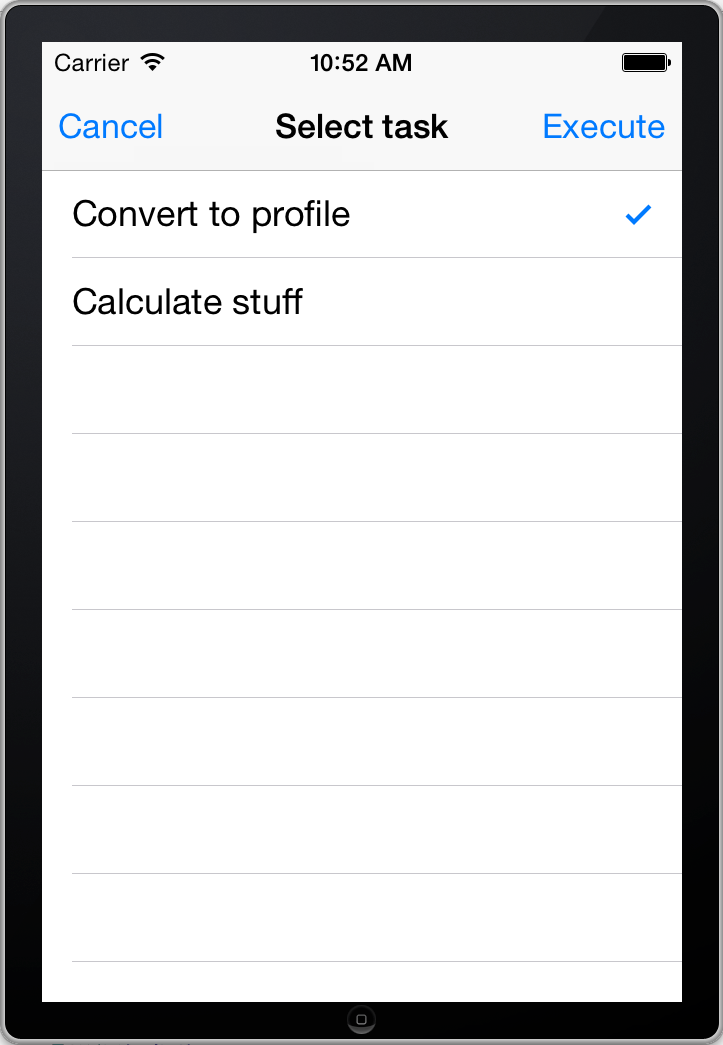
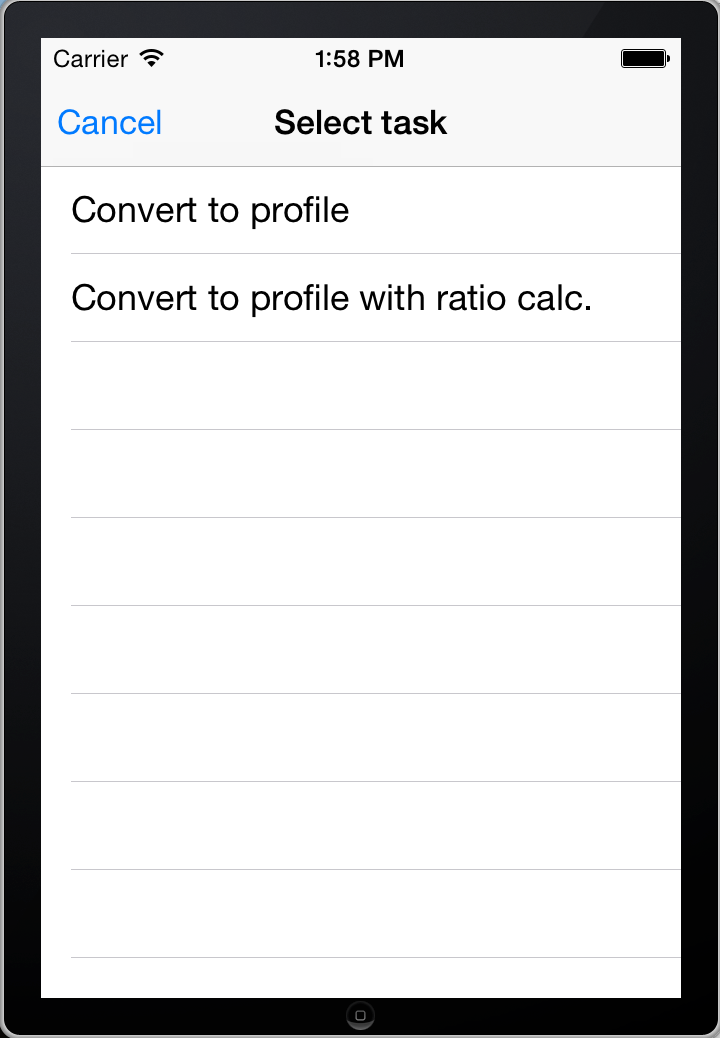
iOS

diff --git a/usermanual/ios_manual.tex b/usermanual/ios_manual.tex
@@ -1,14 +1,15 @@
 In order to use the program import the project from github into Xcode from the following repository:
 \url{https://github.com/genomizer/genomizer-iOS.git} 
 
+To compile and run the program press \click{cmd+R}. A simulator will start and the login screen will be shown as seen in \refer{fig:ios_login}  below. A user gets logged in when accepted credentials are entered in the ‘username’ and ‘password’ fields and the ‘Sign in’ button is pressed. If incorrect credentials is entered, a popup message is shown, informing the user that the username or password is incorrect.
+
 \begin{figure}[ht]
 \addScaledImage{0.2}{ios_login.png}
 \caption{The login screen.}
 \label{fig:ios_login}
 \end{figure}
 \FloatBarrier
-
-To compile and run the program press \click{cmd+R}. A simulator will start and the login screen will be shown as seen in \refer{fig:ios_login}  below. A user gets logged in when accepted credentials are entered in the \term{username} and \term{password} fields and the \click{Sign in} button is pressed. If incorrect credentials is entered, a popup message is shown, informing the user that the username or password is incorrect.
+After logging in, the user is presented with a search view as seen in \refer{fig:ios_search}. The bottom menu bar is used to navigate between the Search-, Selected files- and More-view according to Apples current GUI standards for iOS 7. In the current state, the More-menu only contains a logout button which is used to log out.The Selected files-menu contains a list sorted on file type of files selected by the user. In the search view, the user can search the database for results matching any number of search criteria. To be able to modify the search quickly, a toggle button is available in the rightmost edge of each search field which enables or disables each search field. For example, if the user wants to search for files matching a certain Experiment ID, the user clicks on ‘Experiment ID’, enters the ID and clicks on the toggle button. 
 
 \begin{figure}[ht]
 \addScaledImage{0.2}{ios_search.png}
@@ -16,10 +17,7 @@ To compile and run the program press \click{cmd+R}. A simulator will start and t
 \label{fig:ios_search}
 \end{figure}
 \FloatBarrier
-
-
-After logging in, the user is presented with a search view as seen in \refer{fig:ios_search}. The bottom menu bar is used to navigate between the Search-, Selected files- and More-view according to Apples current GUI standards for iOS 7. In the current state, the More-menu only contains a logout button which is used to log out.The Selected files-menu contains a list sorted on file type of files selected by the user. In the search view, the user can search the database for results matching any number of search criteria. To be able to modify the search quickly, a toggle button is available in the rightmost edge of each search field which enables or disables each search field. For example, if the user wants to search for files matching a certain Experiment ID, the user clicks on \click{Experiment ID}, enters the ID and clicks on the toggle button. 
-
+In top rightmost corner there is a button for opening a advanced search view as seen in \refer{fig:ios_advSearch}. Here the user is supposed to enter a search query in ’pubmed-style-format’. If a user fills in fields in the regular search view and then opens the advanced search view, the fields in filled at the regular search view will apper as a query in the advanced search view.
 
 \begin{figure}[ht]
 \addScaledImage{0.2}{ios_advSearch.png}
@@ -27,8 +25,7 @@ After logging in, the user is presented with a search view as seen in \refer{fig
 \label{fig:ios_advSearch}
 \end{figure}
 \FloatBarrier
-
-In top rightmost corner there is a button for opening a advanced search view as seen in \refer{fig:ios_advSearch}. Here the user is supposed to enter a search query in ’pubmed-style-format’. If a user fills in fields in the regular search view and then opens the advanced search view, the fields in filled at the regular search view will apper as a query in the advanced search view.
+When the search button has been pressed, the user is presented with all matching experiments in the Search Results view shown in \refer{fig:ios_searchResult}. To manage which annotations that shoud be shown for every experiment the user can press the edit button in the top rightmost corner.
 
 \begin{figure}[ht]
 \addScaledImage{0.2}{ios_searchResults.png}
@@ -36,8 +33,7 @@ In top rightmost corner there is a button for opening a advanced search view as 
 \label{fig:ios_searchResult}
 \end{figure}
 \FloatBarrier
-
-When the search button has been pressed, the user is presented with all matching experiments in the Search Results view shown in \refer{fig:ios_searchResult}. To manage which annotations that shoud be shown for every experiment the user can press the edit button in the top rightmost corner.
+When the edit button is pressed the select annotations screen as seen in \refer{fig:ios_selectAnnotations} is shown. Here the user can choose which annotations should be shown in the search results screen. 
 
 \begin{figure}[htb]
 \addScaledImage{0.2}{ios_selectAnnotations.png}
@@ -45,26 +41,30 @@ When the search button has been pressed, the user is presented with all matching
 \label{fig:ios_selectAnnotations}
 \end{figure}
 \FloatBarrier
-
-When the edit button is pressed the select annotations screen as seen in \refer{fig:ios_selectAnnotations} is shown. Here the user can choose which annotations should be shown in the search results screen. 
+To see which files are associated with each experiment, the user can click on the experiment. Then the files view is shown as seen in \refer{fig:ios_files1}. Here the user can see all files conneted to the chosen experiment, sorted by type, and select files that the user want to move to the selected files view. If the user selects files and presses the ‘convert files’-button a the user is shown the Select task view shown in \refer{fig:ios_selectTask}. More about that screen later. The user can also get information about a file by simply clicking the blue information sign close to the filename. The file information is shown in a popup window as shown in \refer{fig:ios_fileInfo}.
 
 \begin{figure}[htb]
-\addScaledImage{0.2}{ios_files.png}
+\addScaledImage{0.2}{ios_files1.png}
 \caption{The files screen.}
-\label{fig:ios_files}
+\label{fig:ios_files1}
 \end{figure}
-\FloatBarrier
-
-To see which files are associated with each experiment, the user can click on the experiment. Then the files view is shown as seen in \refer{fig:ios_files}. Here the user can see all files conneted to the chosen experiment, sorted by type, and select files that the user want to move to the selected files view. If the user selects files and presses the \click{convert files} button a convert request is sent to the server. 
 
 \begin{figure}[htb]
-\addScaledImage{0.2}{ios_selectedFiles.png}
-\caption{The selected files screen.}
-\label{fig:ios_selectedFiles}
+\addScaledImage{0.2}{ios_fileInfo.png}
+\caption{Screen showing popup information about a file.}
+\label{fig:ios_fileInfo}
 \end{figure}
 \FloatBarrier
+If the user had added files to the selected files and then presses the ‘Selected Files’-button in the menu the selected files screen is presented as seen in \refer{fig:ios_selectedFiles1}. If the user wishes to se more information about a file it is possible to simple click the blue information sign close to the filename and then file information is shown in a similar way as in the files view seen in \refer{fig:ios_fileInfo}. In the selected files screen the user can either select files and then press the trashcan icon in the top rightmost corner to delete the currently selected files or select a task to perform on the currently selected files by pressing the ‘Select task to perform’-button. 
 
-If the user had added files to the selected files and then presses the \click{Selected Files} button in the menu the selected files screen is presented as seen in \refer{fig:ios_selectedFiles}. Here the user can either select files and then press the trashcan icon in the top rightmost corner to delete the currently selected files or select a task to perform on the currently selected files by pressing the \click{Select task to perform} button. 
+\begin{figure}[htb]
+\addScaledImage{0.2}{ios_selectedFiles1.png}
+\caption{The selected files screen.}
+\label{fig:ios_selectedFiles1}
+\end{figure}
+
+\FloatBarrier
+If the ‘Select task to perform’-button is pressed the user is presented with the Select task screen is shown as seen in \refer{fig:ios_selectTask}. Here the user can see the different tasks that the user has the possibility to perform on the selected files by clicking the task that the user wants to go forward with. 
 
 \begin{figure}[htb]
 \addScaledImage{0.2}{ios_selectTask.png}
@@ -72,6 +72,44 @@ If the user had added files to the selected files and then presses the \click{Se
 \label{fig:ios_selectTask}
 \end{figure}
 \FloatBarrier
+If the user chooses ‘Convert to profile’ the Convert Raw to Profile screen is shown as seen in \refer{fig:ios_convertRawToProfile}. In this view the user can enter parameters used in the converting process. Every step of converting (i.e. SAM to GFF or GFF to SGR) requires that all previous fields are filled in since every convert step uses the previous steps in the process. When the user has entered the desired parameters a convert request is sent by clicking the ‘Convert’-button. 
 
-If the \click{Select task to perform} button is pressed the user is presented with the Select task screen is shown as seen in \refer{fig:ios_selectTask}. Here the user can see the different tasks that has the possibility to perform on the selected files by first chosing task and then pressing the ‘Execute’-button.  
+\begin{figure}[htb]
+\addScaledImage{0.2}{ios_convertRawToProfile.png}
+\caption{The Convert Raw to Profile screen.}
+\label{fig:ios_convertRawToProfile}
+\end{figure}
+\FloatBarrier
+
+If the user has chosen to use ‘Convert to profile with ratio calculations’ the Convert Raw to Profile with Ratio calcutations screen is shown as seen in \refer{fig:ios_convertRawToProfileWithRatio}. This screen has all fields that the standard Convert Raw to Profile screen and two additional fields that takes parameters for ratio calculations. 
+
+\begin{figure}[htb]
+\addScaledImage{0.2}{ios_convertRawToProfileWithRatio.png}
+\caption{The Convert Raw to Profile screen.}
+\label{fig:ios_convertRawToProfileWithRatio}
+\end{figure}
+\FloatBarrier
+
+If the ‘More’-button in the menu is clicked the More screen is shown as in \refer{fig:ios_more}. Here the user has the possibilities to simply log out from the server or choose the see the current processes running on the server. If the ‘Processing Status’-button is pressed the user is presented with the Processes screen as shown in \refer{fig:ios_processes}. 
+
+\begin{figure}[htb]
+\addScaledImage{0.2}{ios_more.png}
+\caption{The more screen.}
+\label{fig:ios_more}
+\end{figure}
+
+\begin{figure}[htb]
+\addScaledImage{0.2}{ios_processes.png}
+\caption{The processes screen.}
+\label{fig:ios_processes}
+\end{figure}
+\FloatBarrier
+
+
+
+
+
+
+
+
 

diff --git a/system_design/ios_systemdesign.tex b/system_design/ios_systemdesign.tex
@@ -1,39 +1,39 @@
-System design for the Genomizer iOS application. The  system is designed using the model-view-controller principle. Each view is controlled by its own controller class.
+The  system is designed using the model-view-controller principle. Each view is controlled by its own controller class which reacts to user input and triggers changes in the model and updates the view accordingly.
 \begin{figure}[ht]
-\addScaledImageVertical{0.3}{ios_UML.png}
-\caption{UML diagram .}
+\addScaledImage{0.3}{ios_UML2.png}
+\caption{UML diagram.}
 \label{fig:ios_UML}
 \end{figure}
-
-\refer{fig:ios_UML} gives an overall image of the system design. Some classes are excluded from the figure due to making it easier to get an overall idea of the system. The controller classes of the table cells and some other controller classes are not illustrated in the diagram. The non-excluded are explained below:
-
 \FloatBarrier
-\subsubsection{DataFileViewController}
-Controlls the File view presented in \refer{fig:ios_files}. It contains a referens to an experiment and lists all its files in a table.
 
-\subsubsection{SearchResultController}
-Controller class for the Search Results view presented in  \refer{fig:ios_searchResult}. It configures the table which holds the information about the experiments a search resulted in. An ExperimentDescriber is used to generate a description of the experiments.
+\refer{fig:ios_UML} gives an overall image of the system design. Some classes are excluded from the figure to make it easier to get an overall idea of the system. The controller classes of the table cells and some other controller classes are not illustrated in the diagram. The non-excluded classes are:
 
-\subsubsection{ExperimentDescriber}
-Generates a description of an experiment using annotations chosen by the user.
+\begin{itemize}
 
-\subsubsection{Experiment}
-A class that contains all information related to an experiment.
+\item \term{Annotation} - contains information about an annotation and can format the annotation name to an aesthetically more pleasing representation.
 
-\subsubsection{ExperimentFile}
-Is a class that contains information about a file from an experiment.
+\item \term{DataFileViewController} - controlls the File view presented in \refer{fig:ios_files1}. It contains a reference to an experiment and lists all its files in a table.
 
-\subsubsection{ExperimentParser}
-A class that parses experiment information from a NSDictionary to an Experiment object.
+\item \term{Experiment} - is a class that contains information related to an experiment, as well as its files.
 
-\subsubsection{SearchViewController}
-Controller class for the Search view, see \refer{fig:ios_search}. It checks which annotation-fields are used and tells the JSONBuilder to generate a corresponding search query when the user presses the search button. The class also contains a advanced search to allow the user to manually enter search queries. 
+\item \term{ExperimentDescriber} - generates a description of an experiment using annotations chosen by the user.
 
-\subsubsection{Connection}
-A class that sends and receives JSON objects to and from the server.
+\item \term{ExperimentFile} - contains information about a file from an experiment.
 
-\subsubsection{JSONBuilder}
-A class that can create diffrent JSON requests.
+\item \term{ExperimentParser} - parses experiment information from a NSDictionary to an Experiment object.
 
-\subsubsection{Selected files}
-The selected files controlls the selected files view shown in \refer{fig:ios_selectedFiles}. The selected files class contains information about files saved by the user. It has a method that can make convertion possible. 
+\item \term{FileContainer} - contains files and sorts them by file type.
+
+\item \term{JSONBuilder} - creates diffrent JSON requests.
+
+\item \term{PubMedBuilder} - creates a pubmed search query.
+
+\item \term{SearchResultController} - is a controller class for the Search Results view presented in  \refer{fig:ios_searchResult}. It configures the table which holds the information about the experiments a search resulted in. An ExperimentDescriber is used to generate a description of the experiments.
+
+\item \term{SearchViewController} - is a controller class for the Search view, see \refer{fig:ios_search}. It checks which annotation-fields are used and tells the JSONBuilder to generate a corresponding search query when the user presses the search button. The class also contains a advanced search to allow the user to manually enter search queries. 
+
+\item \term{SelectedFilesController} - is a controller class for the The selected files view shown in \refer{fig:ios_selectedFiles1}. The selected files controller contains information about files saved by the user.
+
+\item \term{ServerConnection} - sends and receives JSON objects to and from the server.
+
+\end{itemize}

diff --git a/interaction_design/ios_id.tex b/interaction_design/ios_id.tex
@@ -1,4 +1,5 @@
-Focus has been on making a nice looking application with an intuitive workflow. The design is based on the design selected in the design phase. However, some changes has been made in order to follow the iOS design principles. New insights of the demands of the customer and our increasing experience has also resulted in improvements of the original design. Some of the design decisions are motivated in the text below.
+\subsection{Interaction Design}
+Focus has been on making a nice looking application with an intuitive workflow. Some changes has been made to the original design in order to follow the iOS design principles. New insights of the demands of the customer and our increasing experience has also resulted in improvements of the original design. Some of the design decisions are motivated in the text below.
 
 
 \subsubsection{Navigation bar}
@@ -57,4 +58,24 @@ The selected files view can be seen in \refer{fig:ios_selectedFiles2}. The files
 \FloatBarrier
 
 \paragraph{Select task}
-The select task menu can easily be expanded when new functionality is added to the application. The Execute-button is disabled as long as no task is selected. A checkmark is displayed next to the task to perform. When an other task is selected the checkmark is moved. The reason for not using switch buttons is that they would give the impression that several tasks could be executed at once, which is not possible at the moment.
+The select task menu can easily be expanded when new functionality is added to the application. The tasks displayed to the user are dependant on which type of files have been selected for processing. 
+
+\begin{figure}[ht]
+\addScaledImage{0.2}{ios_convert_parameters.png}
+\caption{The parameter view.}
+\label{fig:ios_convertParameters}
+\end{figure}
+\FloatBarrier
+
+As seen in \refer{fig:ios_convertParameters}, the convert parameter view, shows a number of parameters too be filled. Only the first field has to be filled before a  convert request can be sent. Our thought was that a user should be able to opt-out of all non-optional settings, and let the server decide the standard parameter values. 
+
+\begin{figure}[ht]
+\addScaledImage{0.2}{processing_status_view.png}
+\caption{The process status view.}
+\label{fig:ios_processingStatus}
+\end{figure}
+\FloatBarrier
+
+As visible in \refer{fig:ios_processingStatus}, we chose to build the processing status view with a simple tableview, to make it dynamic and easy. We also think this gives the user the best possible overview of current processes.
+
+\paragraph{}

diff --git a/implementation/ios_implementation.tex b/implementation/ios_implementation.tex
@@ -1,3 +1,4 @@
+\subsection{Implementation}
 In the following section, details regarding the implementation of the iOS application is described using sequence diagrams and.
 
 \subsubsection{Login}
@@ -5,7 +6,7 @@ In the following section, details regarding the implementation of the iOS applic
 When the user tries to log in to the system, they enter username and password and clicks on the login button. The username and password is sent to the server which validates that they are valid. If they are valid, the user is presented with the main view of the application, otherwise an error message is displayed. This sequence is shown in  \refer{fig:ios_sequence_login}.
 
 \begin{figure}[ht]
-\addImageVertical{ios_login_sequence_diagram.png}
+\addImageVertical{ios_sequence_login.png}
 \caption{Login sequence diagram.}
 \label{fig:ios_sequence_login}
 \end{figure}
@@ -16,7 +17,7 @@ Once the user is logged in to the system and they have reached the main view, th
 
 \begin{figure}[ht]
 \addImageVertical{ios_search_sequence_diagram.png}
-\caption{Login sequence diagram.}
+\caption{Search sequence diagram.}
 \label{fig:ios_sequence_search}
 \end{figure}
 
@@ -40,8 +41,18 @@ From the \term{FileView}, the user can select any number of files to add to a li
 \label{fig:ios_sequence_file_selection}
 \end{figure}
 
+\subsubsection{Convert Request}
+
+As seen in \refer{fig:ios_sequence_convert_request}, convert requests are sent with very few steps. 
+
+\begin{figure}[ht]
+\addScaledImageVertical{0.5}{ios_send_convert_sequence_diagram.png}
+\caption{Send convert request.}
+\label{fig:ios_sequence_convert_request}
+\end{figure}
+
 \FloatBarrier
 
-\subsubsection{Testing}
+\subsection{Testing}
 
 Unit-tests have been written for nearly all underlying classes. This includes JSONBuilder, ExperimentDescriber, Experiment, ExperimentFile, and ExperimentParser. These tests check all required functionality, including but not limited to proper object creation. Exactly what all the tests do is explained in the test names and comments. ServerConnection has not been tested, this is work for the next sprint. User interface functionality and integration testing has been done using exploratory methods. These tests have not been recorded or documented.
